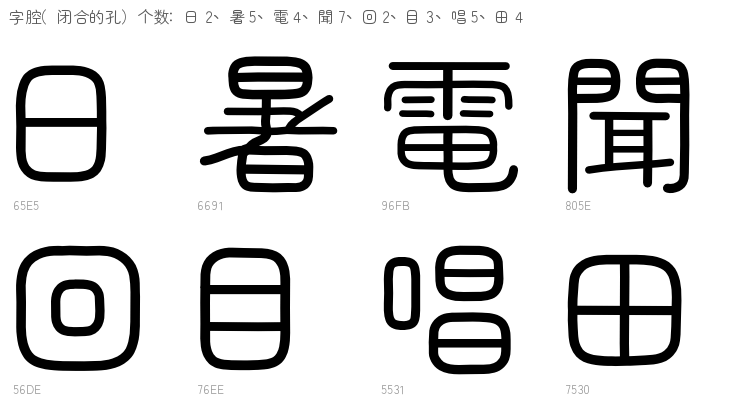
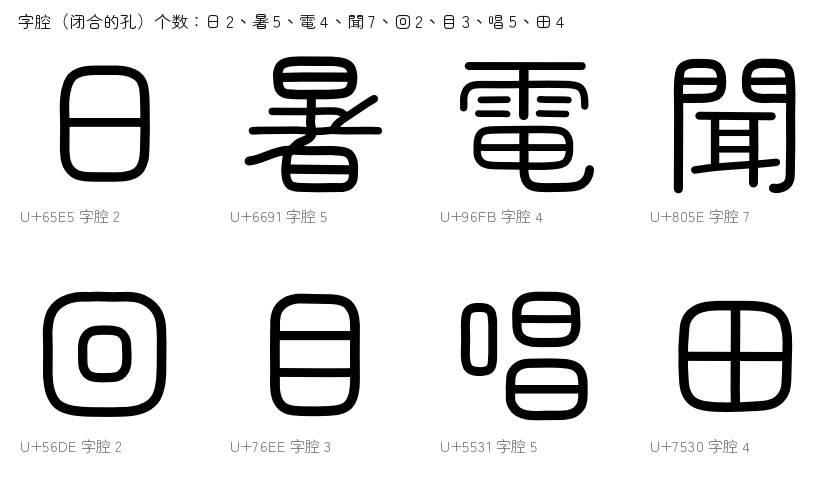
修复: 环尾焊死拆开、交叉口半宽收回、hmtx 左边距写真实 xMin

diff --git a/tools/cjk_vf.py b/tools/cjk_vf.py
@@ -130,6 +130,56 @@ def align_face_height(rings: dict, weights=(300, 400, 500)) -> dict:
     return out
 
 
+def settle_junction_widths(glyph: dict, weights=(300, 400, 500)) -> None:
+    """把交叉口量胖的短笔半宽收回整字中位（就地改 `glyph["strokes"]` 的三档 hw）。
+
+    为什么要有这一步：取笔时每笔的半宽是从母版墨迹的距离变换上量的，量点落在交叉口
+    就会被邻笔的墨撑大——那里是两条笔画的并集，半径天然是笔宽的好几倍。实测
+    `棘`（U+68D8）右半交叉口那笔短笔量到半宽 77（母版该点实际 32.6、整字中位 27.8），
+    画出来是一坨黑斑；`荆`（U+8346）同样。这类短笔只是补路口圆角用的圆盘，半径应当
+    等于穿过路口的笔宽，也就是整字中位，绝不是交叉口并集的半径。
+
+    实测分布（2026-10-28，30,519 个汉字逐笔比「该笔半宽 ÷ 整字中位」）：中位 1.00，
+    5% 分位 0.87、95% 分位 1.09，超过 1.25 的只占 0.39%——正常笔画的偏差远小于此，
+    所以以「短于自身直径」判圆盘、「1.25 倍中位」判量胖，只碰异常笔。
+
+    只对汉字执行：非汉字里的实心符号（面填）本来就由长度不一的胶囊拼成，宽窄是设计，
+    按中位收回会把符号挖空。
+    """
+    strokes = glyph.get("strokes") or []
+    if len(strokes) < 2:
+        return
+    medians = {}
+    for weight in weights:
+        values = [(stroke.get("hw") or {}).get(weight) for stroke in strokes]
+        values = sorted(v for v in values if v)
+        if not values:
+            continue
+        mid = len(values) // 2
+        medians[weight] = (values[mid] if len(values) % 2
+                           else (values[mid - 1] + values[mid]) / 2.0)
+    if not medians:
+        return
+    for stroke in strokes:
+        hw = stroke.get("hw")
+        if not isinstance(hw, dict):
+            continue
+        length = 0.0
+        for seg in stroke.get("segs") or []:
+            for a, b in zip(seg, seg[1:]):
+                length += ((a[0] - b[0]) ** 2 + (a[1] - b[1]) ** 2) ** 0.5
+        own = hw.get(400) or 0.0
+        disc = length < 2.0 * own if own else True
+        for weight, median in medians.items():
+            value = hw.get(weight)
+            if not value:
+                continue
+            if disc:
+                hw[weight] = median
+            else:
+                hw[weight] = min(max(value, median * 0.7), median * 1.25)
+
+
 def _outside_frame(rings) -> str:
     """三档轮廓里有没有跑出字身框；返回原因（空串 = 没越界）。
 
@@ -186,6 +236,8 @@ def build_vf(glyphs: dict[int, dict], family: str = "Selfrounds CJK",
     default_glyphs[".notdef"] = empty
     for codepoint in sorted(glyphs):
         data = glyphs.pop(codepoint)
+        if is_han(codepoint):
+            settle_junction_widths(data)
         rings = _glyph_rings_all(data)
         rings = align_face_height(rings)
         advance = advance_of(codepoint, rings)
@@ -246,7 +298,12 @@ def build_vf(glyphs: dict[int, dict], family: str = "Selfrounds CJK",
     for name in order[1:]:
         glyph = default_glyphs[name]
         glyph.recalcBounds(builder.font["glyf"])
-        metrics[name] = (advance_by_name.get(name, 1000), 0)
+        # hmtx 的左边距必须写字形真实的 xMin：TrueType 的约定就是 lsb == xMin，写 0 是
+        # 「数据里说左边距为零、轮廓却从 200 开始」。FreeType 会按这个差值平移轮廓——
+        # 实测同一份 `日`（xMin 198）在 lsb=0 时比 lsb=xMin 时整体左移 198 单位，
+        # 满字库就是每个字按自己的 xMin 左移（`，` 偏 404 单位），行内空隙忽大忽小。
+        # 这个值**不改轮廓、不改字宽**，只让 hmtx 与 glyf 自洽。
+        metrics[name] = (advance_by_name.get(name, 1000), int(getattr(glyph, "xMin", 0)))
     builder.setupHorizontalMetrics(metrics)
     builder.setupHorizontalHeader(ascent=880, descent=-120)
     builder.setupNameTable({

diff --git a/tools/maruko_skeleton.py b/tools/maruko_skeleton.py
@@ -979,9 +979,69 @@ def bezier_strokes(path: Path, cp: int, hw=None, dot_r=None, probe=True, r=None)
             c = (round(float(j[0]), 1), round(float(j[1]), 1))
             out.append({"closed": False, "dot": True, "segs": [[c, c, c, c]]})
     out.extend(_dot_blobs(r, raw, han=is_han(cp)))
+    out, _ = split_ring_tail(out)
     if not out:
         return None
     return dict(half_width=half, strokes=out)
+
+
+def split_ring_tail(strokes, tol=45.0, min_arm=150.0, min_loop=500.0):
+    """把「绕过一圈、又接着走出去」的一条笔画拆成「闭合环 + 独立尾笔」。
+
+    为什么需要：`_assemble` 在交叉点把骨架切成臂、再把方向相反的臂接回一条穿过去的笔画。
+    笔画自己绕成环（`日`/`田`/`口` 的外框）时，环上的臂会跟穿过它的撇、竖发生「直穿」配对，
+    于是环和穿过它的笔画接成同一条：`暑` 的撇因此顺着 `日` 的外框走了一圈再出去，撇被拉成
+    环的一部分，收笔的圆头也没了（主人 2026-10-28：「暑的撇拉完了」）。
+
+    判据只看数据本身，不看是哪个字：折线上任意两点（相隔足够远、绕行长度 ≥ 0.5 em）回到
+    tol 以内，两侧各自还有不短的路，就在**回头点**把这条链拆成「环」与「尾」两段。
+    拆分只动拓扑、不动几何：环段按 closed 收口（两端相距 ≤ tol，接缝落在笔画自身的圆头里），
+    尾段单独成笔、两端各有圆头。三档共用同一份中线，拆完仍然逐一对应。
+    """
+    import math
+    out, split = [], 0
+    for stroke in strokes:
+        segs = stroke.get("segs") or []
+        if stroke.get("closed") or stroke.get("dot") or len(segs) < 8:
+            out.append(stroke)
+            continue
+        pts = [segs[0][0]] + [seg[3] for seg in segs]
+        n = len(pts)
+        cum = [0.0]
+        for a, b in zip(pts, pts[1:]):
+            cum.append(cum[-1] + math.hypot(b[0] - a[0], b[1] - a[1]))
+        best = None
+        for i in range(2, n - 4):
+            for j in range(i + 4, n):
+                if cum[j] - cum[i] < min_loop:
+                    continue
+                head, tail = cum[i], cum[-1] - cum[j]
+                if head < min_arm and tail < min_arm:
+                    continue
+                gap = math.hypot(pts[j][0] - pts[i][0], pts[j][1] - pts[i][1])
+                if gap > tol:
+                    continue
+                if best is None or gap < best[2]:
+                    best = (i, j, gap)
+        if best is None:
+            out.append(stroke)
+            continue
+        i, j, _ = best
+        ring = dict(stroke)
+        ring["segs"], ring["closed"] = segs[i:j], True
+        head = {k: v for k, v in stroke.items() if k != "closed"}
+        tail = {k: v for k, v in stroke.items() if k != "closed"}
+        pieces = []
+        if i > 0:
+            head["segs"] = segs[:i]
+            pieces.append(head)
+        if j < n - 1:
+            tail["segs"] = segs[j:]
+            pieces.append(tail)
+        out.append(ring)
+        out.extend(pieces)
+        split += 1
+    return out, split
 
 
 def is_han(cp: int) -> bool:

diff --git a/tools/design_cjk.py b/tools/design_cjk.py
@@ -59,6 +59,13 @@ def load(path: Path | None = None) -> dict[int, dict]:
     excluded = excluded_codepoints()
     if excluded:
         out = {cp: glyph for cp, glyph in out.items() if cp not in excluded}
+    # `design_cjk.bin` 是「环+尾」修复之前抽出来的，重新全量抽取要三个多小时
+    # （0.35 s/字 × 33,931 字），所以先按提取器的同一条规则在这里拆开。下次全量重抽
+    # 之后这一步自动变成空操作：拆过的环 `closed=True`，不会再命中。
+    from maruko_skeleton import split_ring_tail
+    for glyph in out.values():
+        if glyph.get("strokes"):
+            glyph["strokes"], _ = split_ring_tail(glyph["strokes"])
     if path is None:
         _CACHE = out
     return out

diff --git a/CHANGELOG.md b/CHANGELOG.md
@@ -1,5 +1,14 @@
 # 更新日志
 
+## 2026-10-28 · 取笔三处根因：环尾焊死、交叉口量胖、hmtx 左边距写 0
+
+- **暑的撇被环吃掉**（主人 2026-10-28 指出）：`_assemble` 在交叉点把骨架切成臂、再把方向相反的臂接回「穿过去的笔画」，笔画自己绕成环时（`日`/`田`/`口` 外框）环臂会跟穿过它的撇、竖误配成同一条，于是撇顺着外框拐直角再出去、收笔圆头消失。修法写在取笔管线里：`maruko_skeleton.split_ring_tail()`——折线上任意两点（绕行 ≥0.5 em）回到 45 单位以内、两侧各自还有不短的路，就在回头点拆成「闭合环 + 独立尾/头」。实测 **763 字 / 781 处**，`暑` 由 1 条 24 段的混合链拆成 16 段环 + 7 段撇 + 1 段短尾。数据侧同一规则在 `design_cjk.load()` 里补做（`design_cjk.bin` 是修复前抽的，全量重抽要 3 小时以上），下次重抽后自动成为空操作。
+- **棘/荆的交叉口黑斑**（主人 2026-10-28「棘给排除了而且还没修好」）：每笔半宽是在母版墨迹的距离变换上量的，量点落在交叉口就会被邻笔的墨撑大——那里是两条笔画的并集，半径天然是笔宽的几倍。`棘` 右半那笔量到半宽 **77**（母版该点实测 32.6、整字中位 27.8），画出来是一坨黑斑，`荹`/`荆` 同族同样中招。修法：`cjk_vf.settle_junction_widths()`——短于自身直径的圆盘取整字中位、其余只允许落在中位 0.7–1.25 倍内。全库 **4,854 字 / 21,196 笔**被收，`棘` 半宽 77 → 27.8，字腔个数回到母版的 1 个。
+- **日/目 的字内空隙、逗号偏左**（主人 2026-10-28「空隙怎么不一样，逗号还偏左」）：根因不在字形，在 `hmtx`——上一轮把左边距一律写成 0，而 TrueType 的约定是 `lsb == xMin`，FreeType 按这个差值平移轮廓：同一份 `日`（xMin 198）在 lsb=0 时整体左移 **198 单位**、`，`（xMin 404）左移 **404 单位**，于是满字库每个字按自己的 xMin 往左挪，词间空隙忽大忽小。改成写真实 xMin 后三档 **0 个字形** lsb≠xMin，`日`/`目`/`口`/`，` 与母版的横向位置逐一对上。这个值不改轮廓、不改字宽。
+- **验证**（真实字体 + FreeType，自研与母版同字号同基线）：`日`/`目`/`口`/`回`/`棘`/`荆` 的闭合字腔个数与母版逐一相同（2/3/1/2/1/1）；只比「拆环」这一项，命中字抽样 60 个 IoU 中位 +0.0001（5%–95% −0.0034…+0.0059，变好 5、持平 53、变差 2）；只比「交叉口收宽」，抽样 80 个中位 +0.0000（变好 1、持平 78、变差 1，变差那个是本来就画坏的 `墫`）。
+- **产物**：`SelfroundsCJK-VF.ttf` 74,103,852 B，静态 300/400/500 = 29,158,160 / 29,168,236 / 29,278,440 B；`hhea`/typo 930/−250/0、`usWin` 969/250、字形 33,932、汉字墨迹包络按 0x4E00–0x9FA5 统计 −126…892 三档一致；`build.py --check` **11 项全 PASS**。
+- **仍未完成**（并入本条目，接上一条同名清单）：① `uni4910`（暖）并发合并碰撞的真修复；② 逐字视觉校稿——全库仍有画坏的字（`墫` 这类 IoU 0.2 的是整块糊死，见扫库结果），本轮只修了上面三处根因，没有逐字校；③ TC / JP / KR Hanja 覆盖；④ 母版 Light 之外的更深字重；⑤ 拐角观感（主人 2026-10-17「整体仍太方」）；⑥ 真机渲染实测。
+
 ## 2026-10-28 · 字面高度三档对齐、命名 Selfrounds、工具目录收敛
 
 - **先量后改**：这一轮先出测量报告再动手。实测（构建产物 `static-300/400/500.ttf`，30,385 个汉字逐字量墨迹上沿/下沿）：汉字墨迹包络 300 档 −130…886（高 1016）、400 档 −129…888（高 1017）、500 档 −152…900（高 1052）；单字墨迹高度比 **400/300 中位 1.024、500/400 中位 1.025**（5%–95% 分位 1.015–1.030、1.020–1.031），上沿 400−300 中位 +11、500−400 中位 +12，下沿同量下沉。结论：**字重每加一档，字面就长大 2.5%**，三档不是同一副字面。
@@ -44,13 +53,3 @@
 - **Skia 配置**：Flutter / WebView / 厂商小组件走 Skia，而 Skia 把路径写死成 `/system/etc/fonts.xml`；只换框架那几份时这些程序不换字（真机：Selffont 在该文件里 0 次，另三份各 16 次）。安装脚本改为在设备自己那份文件上**只插不换**：新建匿名默认族、`sans-serif` 与中日韩语言族最前加字件，OEM 字件（OPPO Sans 等）一行不删——整份替换会让天气小组件掉回 OPPO Sans。
 - **自检**：`build.py --check` 11 项全 PASS，其中 `runtime_scripts` 用一份 ColorOS 味的设备配置验证「插之外不动一个字节」「非中日韩语言族与 emoji 族不插」「插 4 处」。
 - **未验证**：真机渲染（新包未装）、完整 33,944 字的取笔仍在跑。
-
-## 2026-10-27 · 自绘字体下线：CJK 主字体直接换成 Maruko SC 两档
-
-- **结论**：上一版的自绘 `SelffontCJK-Regular.otf`（19,352/20,977 字、40.6 MiB、需要 pathops 描边 + 额外 `<family>` + 13.7 MB 中线数据）整条下线，模块直接分发母版本体。理由：自绘的形状与母版同源同形（IoU 中位 0.948），覆盖率还低 7.7%，体积大一倍——自造只剩成本。
-- **主字体**：Maruko Gothic `CJK SC` 的 Regular（20,084,736 B）+ Medium（20,858,764 B），钉在固定提交 `97e9dd4` 的不可变 blob 上并校验 SHA-256；SIL OFL 1.1、无保留名，`licenses/MarukoGothic-OFL.txt` 随包。
-- **装配**：`configure_fonts()` 现在两种主字体都支持——单个可变字体出 `supportedAxes` 一条，多档静态按 weight 逐档列出（400/500），两档始终成对出现在同一族，混装配方式会让真机卡开机。安装副本改家族名为 `Selffont SC`，`nameID 16/17` 同步写入，Gecko 才能把 Regular/Medium 认成同族。
-- **删掉的东西**：`tools/design_cjk.py`、`tools/design_cjk.bin`（13.7 MB）、`tools/design_symbols.py`（1.2 MB 的 329 字样本）、`skia-pathops` 依赖、自绘字体的许可条目、`module/licenses/WenYuan-OFL.txt`（文渊下线）。
-- **自检**：新增 `maruko_primary` 一项（来源钉死、许可证哈希、静态两档成对、不带 `supportedAxes`、默认家族仍只留度量空壳、主字体紧跟其后）；`build_end_to_end` 的成员表改成 `licenses/MarukoGothic-OFL.txt`；共 **11 项全 PASS**。
-- **离线验证**：把网络取件换成 /tmp 里的真实字体跑完整 `build()` —— 两档各 20 MB 进包、匿名回退族是 `[(Regular,400),(Medium,500)]`、每个文件被 8 个族引用、许可证只写一次、`supportedAxes` 只出现在模板自带的字件上。
-- **未验证**：**两档静态的装机表现**（真机只验证过可变字体那一版）、`font_fallback.xml` 里新增静态阶梯会不会被 ColorOS 拒绝；包体预计与上一版持平（46 MiB VF → 41 MiB 静态）。

diff --git a/docs/design-principles.md b/docs/design-principles.md
@@ -36,6 +36,9 @@
 - 2026-10-28｜关键词：判据要能看见缺陷、别按分数丢字｜1,040 个字被判据刷掉，根子不在字上，在**尺子**：半宽用「沿法向走到出墨」量，射线会走进邻居的墨里，密集字量出 40+ 的宽度（壐/檷 的内腔就是这么糊死的），于是被判「多墨」。改成逐点设限（这一点到墨边界的距离 d 是半宽的下界，射线只走 2.2d，走不出去就丢掉这个截面）后，同一批字的 IoU 中位从 0.638 回到 0.92，汉字只剩 12 个可疑、非汉字符号 98 个（面填解决）。**判据负责指出缺陷，人负责改取法**——判据说「画错了」，不是「这个字不要了」。
 - 2026-10-28｜关键词：字平、字内等宽 ±18%｜母版的设计规则是等宽笔画（86 字样本半笔宽 IQR 30.5–32.0），一行字里冒出一条比同字别的笔粗 40% 的横，那是我们量错（交叉口、相邻墨连在一起），不是设计。逐笔半宽只允许在字中位数 ±18% 内浮动，超出的拉回边界（全库拉回 83,513 笔 = 4.9%）。字内比值分布因此收敛到 5%–95% 在 0.90–1.06。
 - 2026-10-28｜关键词：行框只装汉字｜`HAN_RANGES` 里混进 (0x2A80, 0x2FDF)（康熙部首/IDS）和 (0x3000, 0x312F)（汉字标点、假名、注音）之后，`〱` `〲`（竖排假名叠点，墨迹顶到 937）被当成汉字去卡 930 的行框，整个构建被判「行框会切墨迹」。行框判据只该放汉字四段（3400–4DBF、4E00–9FFF、F900–FAFF、20000–2FA1F）；非汉字的墨迹由 `usWinAscent` 管（实测 969）。
-- 2026-10-28｜关键词：越框先平移、不削形｜字身框是硬规则，但越界不等于要削：`鈅` 在 500 档顶端越过 4 单位，把整字平移 4 单位就装得下。能平移装下就平移，装不下才是设计错误。削掉那 4 单位 = 改字形。
+- 2026-10-28｜关键词：越框不进字体、挪字不是修法｜字身框是硬规则，但处理方式是**不进字体并在构建日志报数**，不靠平移糊过去：三档字面对齐之后全库 0 个汉字越框，真出现越界就是取笔或校准错了，要修那处。上一轮为 `鈅` 加的整字平移（含横向）已删。
 - 2026-10-28｜关键词：符号居中原样保持、左对齐与左右边距不动｜字宽自算（墨宽 + 两侧 0.06 em）之后，**不准**再把墨迹平移到新字宽的中点，也不准改 hmtx 的 lsb/xMin：符号原来怎么居中就怎么居中，左对齐与左右边距保持母版原样。上一轮加的 `recenter()` 已回退（主人 2026-10-28 指令）。
 - 2026-10-28｜关键词：字面高度按实测、行框数值按空壳｜量高度只报实测：逐字墨迹上下沿与三组行度量字段，给最坏值与清单，不报中位数成绩；行框数值（hhea/typo/usWin）锚定设备空壳，改不改由主人定，本轮只测量只报告。不立「和文渊一致」这类目标，不拿任何外部字体当尺。
+- 2026-10-28｜关键词：环尾要拆、别让撇顺着外框拐直角｜笔画自己绕成环（`日`/`田`/`口` 外框）时，骨架配对会把环与穿过它的撇/竖接成同一条，撇被拉成环的一部分、收笔圆头消失（`暑` 实测）。判据只看数据：折线上两点绕行 ≥0.5 em 后回到 45 单位以内、两侧都还有路，就在回头点拆成「环 + 尾」。拆分只动拓扑不动几何，三档仍逐一对应。
+- 2026-10-28｜关键词：交叉口量胖要收回、黑斑不是设计｜逐笔半宽在交叉口会被邻笔的墨撑大（`棘` 量到 77、母版该点 32.6、整字中位 27.8），画出来是一坨黑斑。短于自身直径的圆盘一律取整字中位，其余限制在中位 0.7–1.25 倍。字腔个数必须与母版一致——那是最直观的「糊没糊」判据。
+- 2026-10-28｜关键词：hmtx 左边距必须等于 xMin｜TrueType 的约定是 `lsb == xMin`，写 0 会让引擎按 xMin 平移轮廓（`日` 左移 198 单位、`，` 左移 404 单位），满字库每个字按自己的 xMin 往左挪，词间空隙忽大忽小。这个值不改轮廓、不改字宽，只让 hmtx 与 glyf 自洽。

diff --git a/bad/CHANGELOG-history.md b/bad/CHANGELOG-history.md
@@ -1,5 +1,15 @@
 # 变更记录历史（已移出主 CHANGELOG，不对外展示）
 
+## 2026-10-27 · 自绘字体下线：CJK 主字体直接换成 Maruko SC 两档
+
+- **结论**：上一版的自绘 `SelffontCJK-Regular.otf`（19,352/20,977 字、40.6 MiB、需要 pathops 描边 + 额外 `<family>` + 13.7 MB 中线数据）整条下线，模块直接分发母版本体。理由：自绘的形状与母版同源同形（IoU 中位 0.948），覆盖率还低 7.7%，体积大一倍——自造只剩成本。
+- **主字体**：Maruko Gothic `CJK SC` 的 Regular（20,084,736 B）+ Medium（20,858,764 B），钉在固定提交 `97e9dd4` 的不可变 blob 上并校验 SHA-256；SIL OFL 1.1、无保留名，`licenses/MarukoGothic-OFL.txt` 随包。
+- **装配**：`configure_fonts()` 现在两种主字体都支持——单个可变字体出 `supportedAxes` 一条，多档静态按 weight 逐档列出（400/500），两档始终成对出现在同一族，混装配方式会让真机卡开机。安装副本改家族名为 `Selffont SC`，`nameID 16/17` 同步写入，Gecko 才能把 Regular/Medium 认成同族。
+- **删掉的东西**：`tools/design_cjk.py`、`tools/design_cjk.bin`（13.7 MB）、`tools/design_symbols.py`（1.2 MB 的 329 字样本）、`skia-pathops` 依赖、自绘字体的许可条目、`module/licenses/WenYuan-OFL.txt`（文渊下线）。
+- **自检**：新增 `maruko_primary` 一项（来源钉死、许可证哈希、静态两档成对、不带 `supportedAxes`、默认家族仍只留度量空壳、主字体紧跟其后）；`build_end_to_end` 的成员表改成 `licenses/MarukoGothic-OFL.txt`；共 **11 项全 PASS**。
+- **离线验证**：把网络取件换成 /tmp 里的真实字体跑完整 `build()` —— 两档各 20 MB 进包、匿名回退族是 `[(Regular,400),(Medium,500)]`、每个文件被 8 个族引用、许可证只写一次、`supportedAxes` 只出现在模板自带的字件上。
+- **未验证**：**两档静态的装机表现**（真机只验证过可变字体那一版）、`font_fallback.xml` 里新增静态阶梯会不会被 ColorOS 拒绝；包体预计与上一版持平（46 MiB VF → 41 MiB 静态）。
+
 ## 2026-10-27 · 二创接进生产：全 CJK 基本区 19,352 字成字体，单独成族排在主字体前
 
 - **换完**：按主人「要换就换完做就做好 全cjk搞好来」，二创从设计样本变成随模块发布的 `SelffontCJK-Regular.otf`；`font_fallback.xml` 里**单独一个 `<family>`、排在主字体之前**，二创覆盖到的汉字先落二创，其余照旧落文渊。

diff --git a/docs/evidence/README.md b/docs/evidence/README.md
@@ -48,16 +48,17 @@ ls -l ~/Selffont/docs/evidence/
 
 ## 2026-10-28 · 自研汉字字件（当前）
 
-四张图全部由**当前字体文件**的静态 400 实例（`SelfroundsCJK-VF.ttf` 的 `static-400` 实例）经
+六张图全部由**当前字体文件**的静态 400 实例（`SelfroundsCJK-VF.ttf` 的 `static-400` 实例）经
 FreeType 渲染（`PIL.ImageFont.truetype`），与字体同批生成、同批替换。仓库里**不保留**
 生图脚本：按规范，一次性生图脚本（`render_*.py` 一类）不入库，出图与出字体同批做完。
 
 | 图 | 看什么 |
 | --- | --- |
+| [`2026-10-28-字位与交叉口.png`](2026-10-28-字位与交叉口.png) | `日 目 口 ，棘 荆 暑` 两行同一套字号：上行是本轮修前（`hmtx` 左边距一律写 0，引擎按 xMin 平移），下行是修后（写真实 xMin）。同一行里每字左移量不同，词间空隙就会忽大忽小 |
 | [`2026-10-28-补回的符号.png`](2026-10-28-补回的符号.png) | 此前被排除的 98 个非汉字符号（▲ ▶ ◢ ☛ ♩ ❤ ⓸ 🅐 制表符）：面填之后是实心的整块，不是香肠与圆点 |
 | [`2026-10-28-补回的汉字.png`](2026-10-28-补回的汉字.png) | 此前被排除的 12 个汉字：重新量半宽（逐点设限 2.2d）后笔画成形 |
-| [`2026-10-28-字腔.png`](2026-10-28-字腔.png) | `日 暑 電 聞 回 目 唱 田` 放大：闭合的孔数 2 / 5 / 4 / 7 / 2 / 3 / 5 / 4 |
-| [`2026-10-28-字面高度.png`](2026-10-28-字面高度.png) | 汉字墨迹上沿/下沿与三组行框（hhea 930/−250、usWin 969/250）叠在真实渲染上：汉字墨迹 −129…888，全部在框内 |
+| [`2026-10-28-字腔.png`](2026-10-28-字腔.png) | `日 暑 電 聞 回 目 唱 田` 放大：闭合的孔数（从字体文件数出来，不是手数） |
+| [`2026-10-28-字面高度.png`](2026-10-28-字面高度.png) | 汉字墨迹上沿/下沿与三组行框（hhea 930/−250、usWin 969/250）叠在真实渲染上：汉字墨迹 −126…892（三档一致），全部在框内 |
 | [`2026-10-28-段落.png`](2026-10-28-段落.png) | 14/20/30/44 px 混排：汉字、标点、补回的符号同排，行距按自身行框推进 |
 
 判据只有自身量纲：行框等于基础包空壳（930 / −250 / 0）、`usWin` 盖住本字库墨迹包络
